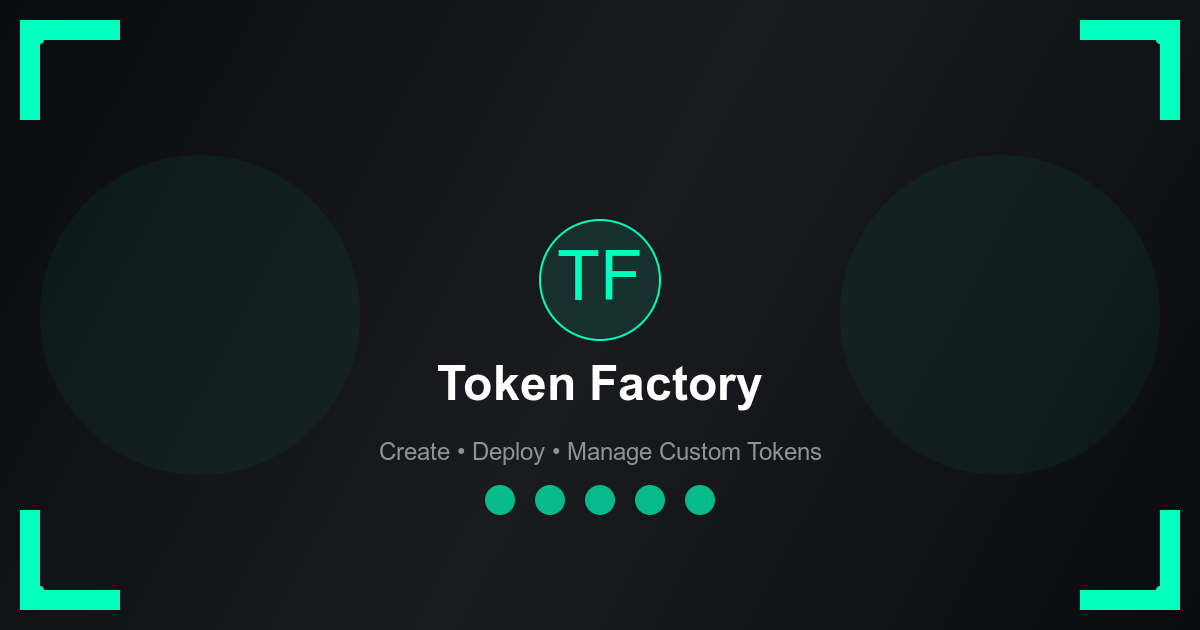
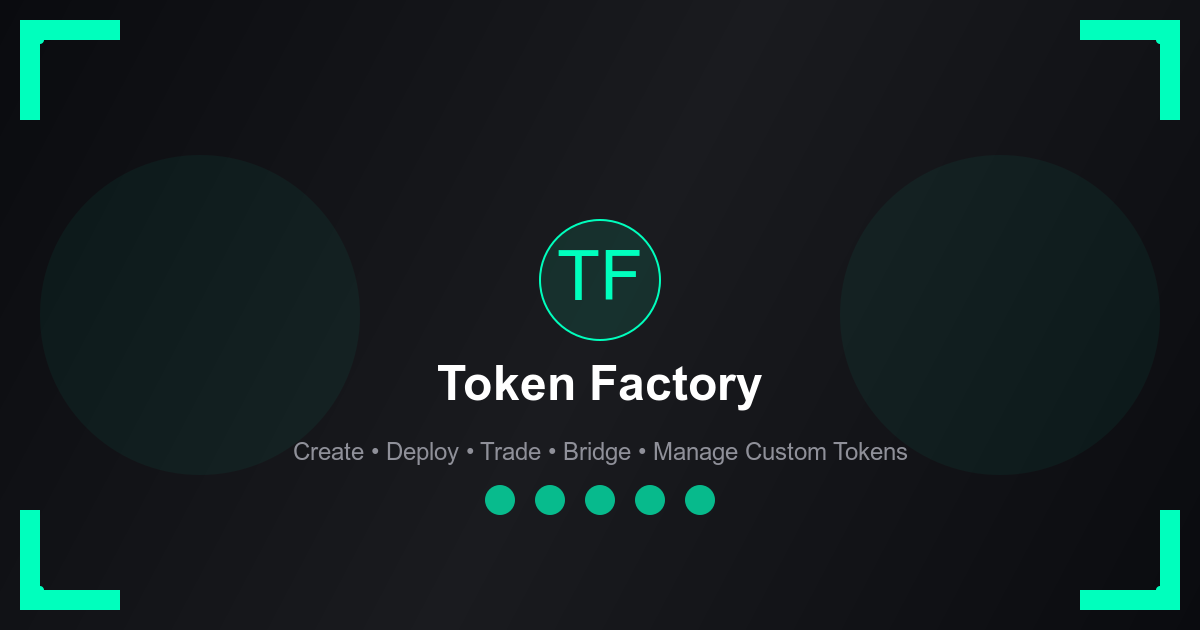
made some fixes on meta tags and previws

Changed region(s): [[0.2467, 0.6937, 0.7708, 0.754]]

diff --git a/src/config/metaTags.js b/src/config/metaTags.js
@@ -1,0 +1,68 @@
+const baseUrl = 'https://token-factory.xyz';
+
+export const metaTagsConfig = {
+  '/': {
+    title: 'Token Factory - Create NFTs, Deploy Custom Tokens, Trade and Bridge',
+    description: 'Create, deploy, and manage custom tokens on multiple blockchains with Token Factory. Features include token creation, trading, minting NFTs, snapshots, and more.',
+    image: '/preview-card.png',
+  },
+  '/create-token': {
+    title: 'Token Factory - Create Custom Tokens',
+    description: 'Create and deploy your own custom tokens on multiple blockchains. Simple interface with advanced features for token creation and management.',
+    image: '/preview-card.png',
+  },
+  '/create-nft': {
+    title: 'Token Factory - Create NFT Collections',
+    description: 'Launch your NFT collection with customizable minting, royalties, and advanced features. Support for multiple blockchains.',
+    image: '/preview-card.png',
+  },
+  '/dashboard': {
+    title: 'Token Factory - Dashboard',
+    description: 'Manage your tokens, NFTs, and DeFi activities from a single dashboard. Track your assets and transactions.',
+    image: '/preview-card.png',
+  },
+  '/collections': {
+    title: 'Token Factory - NFT Collections',
+    description: 'Browse and manage NFT collections. Create, mint, and trade NFTs with advanced collection management features.',
+    image: '/preview-card.png',
+  },
+  '/meme-factory': {
+    title: 'Token Factory - Meme Factory',
+    description: 'Create and launch your meme tokens with custom tokenomics. Simple interface for meme token deployment.',
+    image: '/preview-card.png',
+  },
+  '/trading': {
+    title: 'Token Factory - DEX Trading Interface',
+    description: 'Trade tokens across multiple chains with our DEX aggregator. Features include swap, liquidity provision, and yield farming.',
+    image: '/preview-card.png',
+  },
+  '/bridge': {
+    title: 'Token Factory - Cross-chain Bridge',
+    description: 'Bridge your tokens securely across different blockchains. Support for multiple networks and token standards.',
+    image: '/preview-card.png',
+  },
+  '/merch-store': {
+    title: 'Token Factory - Merchandise Store',
+    description: 'Official Token Factory merchandise and collectibles. Exclusive items for the community.',
+    image: '/preview-card.png',
+  },
+  '/account': {
+    title: 'Token Factory - Account Management',
+    description: 'Manage your Token Factory account settings, preferences, and security options.',
+    image: '/preview-card.png',
+  },
+  '/history': {
+    title: 'Token Factory - Transaction History',
+    description: 'View and track your complete transaction history across all Token Factory services.',
+    image: '/preview-card.png',
+  }
+};
+
+export const getMetaTags = (path) => {
+  const route = metaTagsConfig[path] || metaTagsConfig['/'];
+  return {
+    ...route,
+    url: `${baseUrl}${path}`,
+    image: `${baseUrl}${route.image}`
+  };
+}; 

diff --git a/src/components/MetaTags.jsx b/src/components/MetaTags.jsx
@@ -1,0 +1,36 @@
+import React from 'react';
+import { Helmet } from 'react-helmet';
+import { useLocation } from 'react-router-dom';
+import { getMetaTags } from '../config/metaTags';
+
+const MetaTags = () => {
+  const location = useLocation();
+  const meta = getMetaTags(location.pathname);
+
+  return (
+    <Helmet>
+      {/* Primary Meta Tags */}
+      <title>{meta.title}</title>
+      <meta name="title" content={meta.title} />
+      <meta name="description" content={meta.description} />
+
+      {/* Open Graph / Facebook */}
+      <meta property="og:type" content="website" />
+      <meta property="og:url" content={meta.url} />
+      <meta property="og:title" content={meta.title} />
+      <meta property="og:description" content={meta.description} />
+      <meta property="og:image" content={meta.image} />
+      <meta property="og:image:width" content="1200" />
+      <meta property="og:image:height" content="630" />
+
+      {/* Twitter */}
+      <meta property="twitter:card" content="summary_large_image" />
+      <meta property="twitter:url" content={meta.url} />
+      <meta property="twitter:title" content={meta.title} />
+      <meta property="twitter:description" content={meta.description} />
+      <meta property="twitter:image" content={meta.image} />
+    </Helmet>
+  );
+};
+
+export default MetaTags;

diff --git a/src/App.jsx b/src/App.jsx
@@ -28,6 +28,7 @@ import ActivityPage from './pages/ActivityPage';
 import BridgePage from './pages/bridge';
 import FeesTracker from './pages/FeesTracker';
 import MemeFactory from './pages/MemeFactory';
+import MetaTags from './components/MetaTags';
 
 function App() {
   const { isDarkMode } = useTheme();
